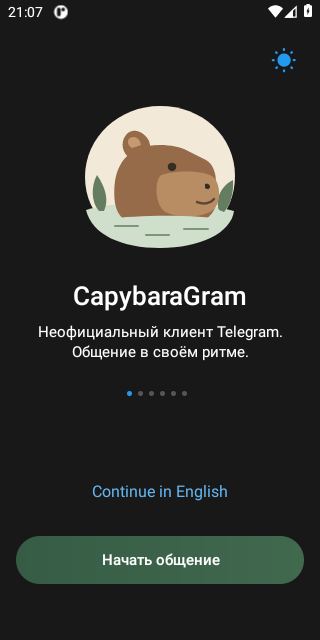
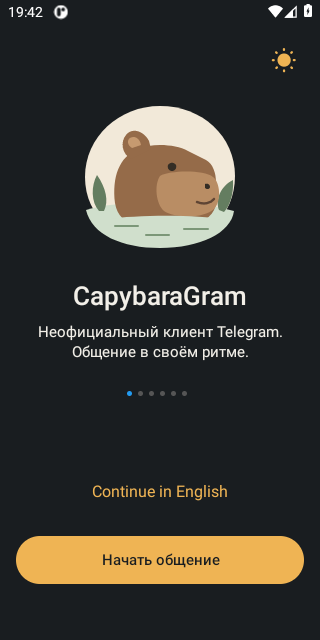
Show verified Android appearance screenshots and add first-use instructions

diff --git a/docs/QUICKSTART.md b/docs/QUICKSTART.md
@@ -1,0 +1,44 @@
+# CapybaraGram: первые шаги
+
+Инструкция к тестовой версии с новым оформлением. Здесь описано поведение, заложенное в исходниках; результаты конкретных сборок перечислены в [отчёте о проверках](VERIFICATION.md). Скачиваемая preview для обеих платформ ещё готовится.
+
+## Установка и обновление
+
+**Android:** нужен телефон с ARM64 и Android 6.0 или новее. Откройте APK на телефоне. Если CapybaraGram уже установлен с той же подписью, устанавливайте новую версию поверх него. Удаление приложения может удалить локальные заметки и шаблоны. Другие архитектуры в этом APK не предусмотрены.
+
+**Windows:** используйте установщик для x64. При обновлении выбирайте прежний каталог установки. Переносная версия хранит профиль рядом с EXE в `CapybaraGramForcePortable`; установочная — в `%APPDATA%/CapybaraGram Preview`. Это разные места хранения: установка в новый каталог не переносит авторизацию и заметки из переносной версии автоматически.
+
+При первом входе используйте собственный аккаунт Telegram. Параметры API, использованные разработчиком для сборки, не заменяют вход пользователя.
+
+## Новая тема
+
+На **Android** откройте настройки оформления и выберите **Capybara Light** или **Capybara Dark**. На **Windows** выберите встроенную светлую или ночную тему в настройках чатов. Новые цвета распространяются на список чатов, переписку, меню и настройки.
+
+Если после обновления сохранилась ваша прежняя загруженная тема, переключите её вручную. Светлая тема использует тёплые нейтральные поверхности; тёмная — графитовые. Обе используют янтарные акценты.
+
+## Заметка к разговору
+
+Откройте обычный чат. На Android нажмите карандаш в шапке; на Windows — карандаш и пункт «CapybaraGram · Заметка к чату». Эти инструменты также доступны через меню чата.
+
+Введите текст и нажмите «Сохранить». Чтобы изменить заметку, откройте её тем же способом. Заметка относится к текущему чату или поддерживаемой теме форума и не отправляется собеседнику. Редактор Android пока не предлагается в секретных чатах.
+
+## Шаблон ответа
+
+1. В нужном чате откройте «CapybaraGram · Шаблоны ответов». На Windows этот пункт также есть в меню под карандашом.
+2. Создайте шаблон, введите готовый текст и сохраните его.
+3. Выберите сохранённый шаблон: откроется предпросмотр с указанием получателя.
+4. Нажмите кнопку вставки в черновик. Проверьте текст в поле сообщения, при необходимости измените его и отправьте обычной кнопкой.
+
+Например, можно сохранить: «Получил сообщение. Посмотрю материалы и отвечу сегодня». Шаблоны доступны в рамках текущего аккаунта; для другого аккаунта используется отдельный набор.
+
+Если во время предпросмотра изменился чат или режим ввода, заново откройте шаблоны в нужном разговоре. Пустой шаблон не сохраняется.
+
+## Что учитывать в preview
+
+Заметки и шаблоны локальные: автоматической синхронизации между Android и Windows пока нет. Десять слотов аккаунтов предусмотрены кодом, но одновременная работа десяти авторизованных аккаунтов ещё не принята. Обычные папки используют сервер Telegram и его ограничения.
+
+Android содержит начальную реализацию управления подтверждениями прочтения, однако её сетевое поведение ещё требует приёмки. Полная поддержка секретных чатов, архив удалённых и исчезающих сообщений и транскрипция голоса остаются в плане. Эта версия не открывает серверные возможности Premium.
+
+## Сообщить об ошибке
+
+В GitHub Issues укажите платформу, версию, последовательность действий и результат. Для скриншотов используйте тестовую переписку без личных данных. Не прикладывайте коды входа, пароли, ключи API или папку сессии.

diff --git a/README.md b/README.md
@@ -22,14 +22,14 @@ CapybaraGram развивает привычный Telegram в сторону л
 
 В код добавлены **Capybara Light / Capybara Dark**: тёплая светлая и графитовая тёмная темы с янтарными акцентами. Изменения затрагивают список чатов, переписку, меню и настройки. В шапке чата появилась отдельная кнопка доступа к инструментам CapybaraGram.
 
-Новые Android- и Windows-сборки сейчас проходят подготовку и проверку. Ниже пока показаны снимки предыдущих сборок; они будут заменены после проверки новых файлов. [Как устроено оформление и что перенесено из концепта](docs/APPEARANCE.md).
+Android с новой палитрой собран и прошёл стартовую проверку; ниже уже показаны его реальные экраны. Обновлённая Windows-версия ещё собирается. Небольшая дополнительная правка цвета индикатора страниц Android проходит повторную сборку. [Как устроено оформление и что перенесено из концепта](docs/APPEARANCE.md).
 
 ## Как выглядит приложение
 
-Ниже — **реальные снимки тестовых сборок**, сделанные на чистых тестовых устройствах без входа в аккаунт. Они показывают стартовые экраны предыдущих проверенных сборок до обновления оформления; работу функций внутри чата эти снимки не подтверждают.
+Ниже — **реальные снимки тестовых сборок**, сделанные на чистых тестовых устройствах без входа в аккаунт. Android показан с новой палитрой, Windows — в предыдущей проверенной сборке. Работу функций внутри чата эти снимки не подтверждают.
 
 <table>
-<tr><th>Android · первый запуск</th><th>Windows · первый запуск</th></tr>
+<tr><th>Android · новое оформление</th><th>Windows · предыдущая сборка</th></tr>
 <tr>
 <td align="center"><img src="docs/images/android-start.png" width="240" alt="Реальный экран первого запуска CapybaraGram на Android"></td>
 <td align="center"><img src="docs/images/windows-start.png" width="540" alt="Реальный экран первого запуска Windows Release CapybaraGram"></td>
@@ -38,7 +38,7 @@ CapybaraGram развивает привычный Telegram в сторону л
 
 <details>
 <summary>Ещё два экрана: тёмная тема Android и вход по номеру на Windows</summary>
-<p>Текущее приложение. Поле номера пустое; настоящие аккаунты не использовались.</p>
+<p>Новая тёмная тема Android и форма входа предыдущей Windows-сборки. Поле номера пустое; настоящие аккаунты не использовались.</p>
 <p><img src="docs/images/android-dark.png" width="230" alt="Текущая тёмная тема стартового экрана Android"> <img src="docs/images/windows-phone.png" width="510" alt="Пустая форма входа по номеру на Windows"></p>
 </details>
 
@@ -73,8 +73,8 @@ CapybaraGram развивает привычный Telegram в сторону л
 
 | Артефакт / сценарий | Проверенный запуск |
 | --- | --- |
-| Android ARM64 APK с первой реализацией «нечиталки» | [Сборка 34058353588](https://github.com/AlbertBoss/capybaragram-build/actions/runs/34058353588) |
-| Android: установка, стартовые экраны и перезапуск | [Проверка 34060394953](https://github.com/AlbertBoss/capybaragram-build/actions/runs/34060394953) |
+| Android ARM64 APK с новым оформлением и первой реализацией «нечиталки» | [Сборка 34154803384](https://github.com/AlbertBoss/capybaragram-build/actions/runs/34154803384) |
+| Android: установка, стартовые экраны и перезапуск | [Проверка 34156405310](https://github.com/AlbertBoss/capybaragram-build/actions/runs/34156405310) |
 | Windows x64 Release EXE | [Сборка 34031740962](https://github.com/AlbertBoss/capybaragram-build/actions/runs/34031740962) |
 | Windows: переход к пустой форме входа | [Проверка 34059187270](https://github.com/AlbertBoss/capybaragram-build/actions/runs/34059187270) |
 | Windows: установщик, замена и сохранность тестовых файлов | [Проверка 34060238891](https://github.com/AlbertBoss/capybaragram-build/actions/runs/34060238891) |
@@ -89,6 +89,7 @@ CapybaraGram развивает привычный Telegram в сторону л
 
 ## Документация и код
 
+- [Первые шаги: установка, темы, заметки и шаблоны](docs/QUICKSTART.md)
 - [Оформление и доступ к инструментам чата](docs/APPEARANCE.md)
 - [Архитектура и карта собственных модулей](docs/ARCHITECTURE.md)
 - [Подтверждённые результаты и границы тестирования](docs/VERIFICATION.md)

diff --git a/docs/images/README.md b/docs/images/README.md
@@ -1,10 +1,10 @@
-# Скриншоты текущих сборок
+# Происхождение скриншотов
 
 [← К проекту](../../README.md)
 
-Изображения скопированы без изменения содержимого. Они сняты в одноразовом CI-окружении без авторизованного Telegram-аккаунта. На них нет переписок, номера пользователя или кода входа. Открыты стартовые экраны и пустая форма номера.
+Изображения скопированы без изменения содержимого. Они сняты в одноразовом CI-окружении без авторизованного Telegram-аккаунта. Личной переписки, номера пользователя и кода входа на них нет.
 
-- Android: APK из [34058353588](https://github.com/AlbertBoss/capybaragram-build/actions/runs/34058353588); снимки из [34059939947](https://github.com/AlbertBoss/capybaragram-build/actions/runs/34059939947). В этом тесте не удалось открыть список приложений Pixel; последующая проверка того же APK [34060394953](https://github.com/AlbertBoss/capybaragram-build/actions/runs/34060394953) прошла.
-- Windows: Release EXE из [34031740962](https://github.com/AlbertBoss/capybaragram-build/actions/runs/34031740962); снимки из [34059187270](https://github.com/AlbertBoss/capybaragram-build/actions/runs/34059187270).
+- **Android, новая палитра:** APK [34154803384](https://github.com/AlbertBoss/capybaragram-build/actions/runs/34154803384), снимки [34156405310](https://github.com/AlbertBoss/capybaragram-build/actions/runs/34156405310). Установка, стартовые сценарии и переключение тем прошли; все 16 снимков проверены. Синяя точка текущей страницы ещё видна на этих снимках; её исправление проходит отдельную сборку.
+- **Windows, прежнее оформление:** EXE [34031740962](https://github.com/AlbertBoss/capybaragram-build/actions/runs/34031740962), снимки [34059187270](https://github.com/AlbertBoss/capybaragram-build/actions/runs/34059187270). Сборка с новым стилем ещё выполняется.
 
-Скриншоты не доказывают работу заметок, шаблонов или «нечиталки» после входа. Они показывают фактический текущий интерфейс; окончательный дизайн ещё разрабатывается. Контрольные суммы сохранены в [provenance.json](provenance.json).
+Снимки показывают стартовые экраны и пустую форму номера. Они не доказывают работу заметок, шаблонов, «нечиталки» или окончательный вид переписки после входа. Контрольные суммы: [provenance.json](provenance.json).

diff --git a/docs/APPEARANCE.md b/docs/APPEARANCE.md
@@ -20,7 +20,11 @@
 
 Для исходников проверены применение изменений к закреплённой версии, итоговые хеши и отказ от повторного наложения. Основные пары текста и фона имеют расчётный контраст от 4,61:1; это не заменяет визуальную проверку каждого экрана и состояния.
 
-**Новые сборки ещё проходят подготовку и проверку:** [Android](https://github.com/AlbertBoss/capybaragram-build/actions/runs/34152342678), [Windows](https://github.com/AlbertBoss/capybaragram-build/actions/runs/34153588919). До получения и проверки новых файлов этот документ описывает внесённый код, а не принятый релиз.
+**Android:** [сборка 34154803384](https://github.com/AlbertBoss/capybaragram-build/actions/runs/34154803384) прошла проверку подписи, release-параметров и встроенных тем. [Проверка 34156405310](https://github.com/AlbertBoss/capybaragram-build/actions/runs/34156405310) подтвердила установку, шесть стартовых страниц, переключение тем, форму номера и перезапуск. Все 16 снимков просмотрены. Поля ввода и пояснение разрешения соответствуют новой палитре; оставшаяся синяя точка страниц исправлена в коде и проверяется в [следующей сборке](https://github.com/AlbertBoss/capybaragram-build/actions/runs/34156952657).
+
+**Windows:** [сборка с новым оформлением](https://github.com/AlbertBoss/capybaragram-build/actions/runs/34153588919) ещё выполняется. Показанные в репозитории Windows-снимки относятся к предыдущему оформлению.
+
+Стартовые тесты не подтверждают вид каждого экрана после входа и работу редакторов в реальной переписке. Скачиваемая preview для обеих платформ ещё готовится.
 
 ## Для разработчика
 
